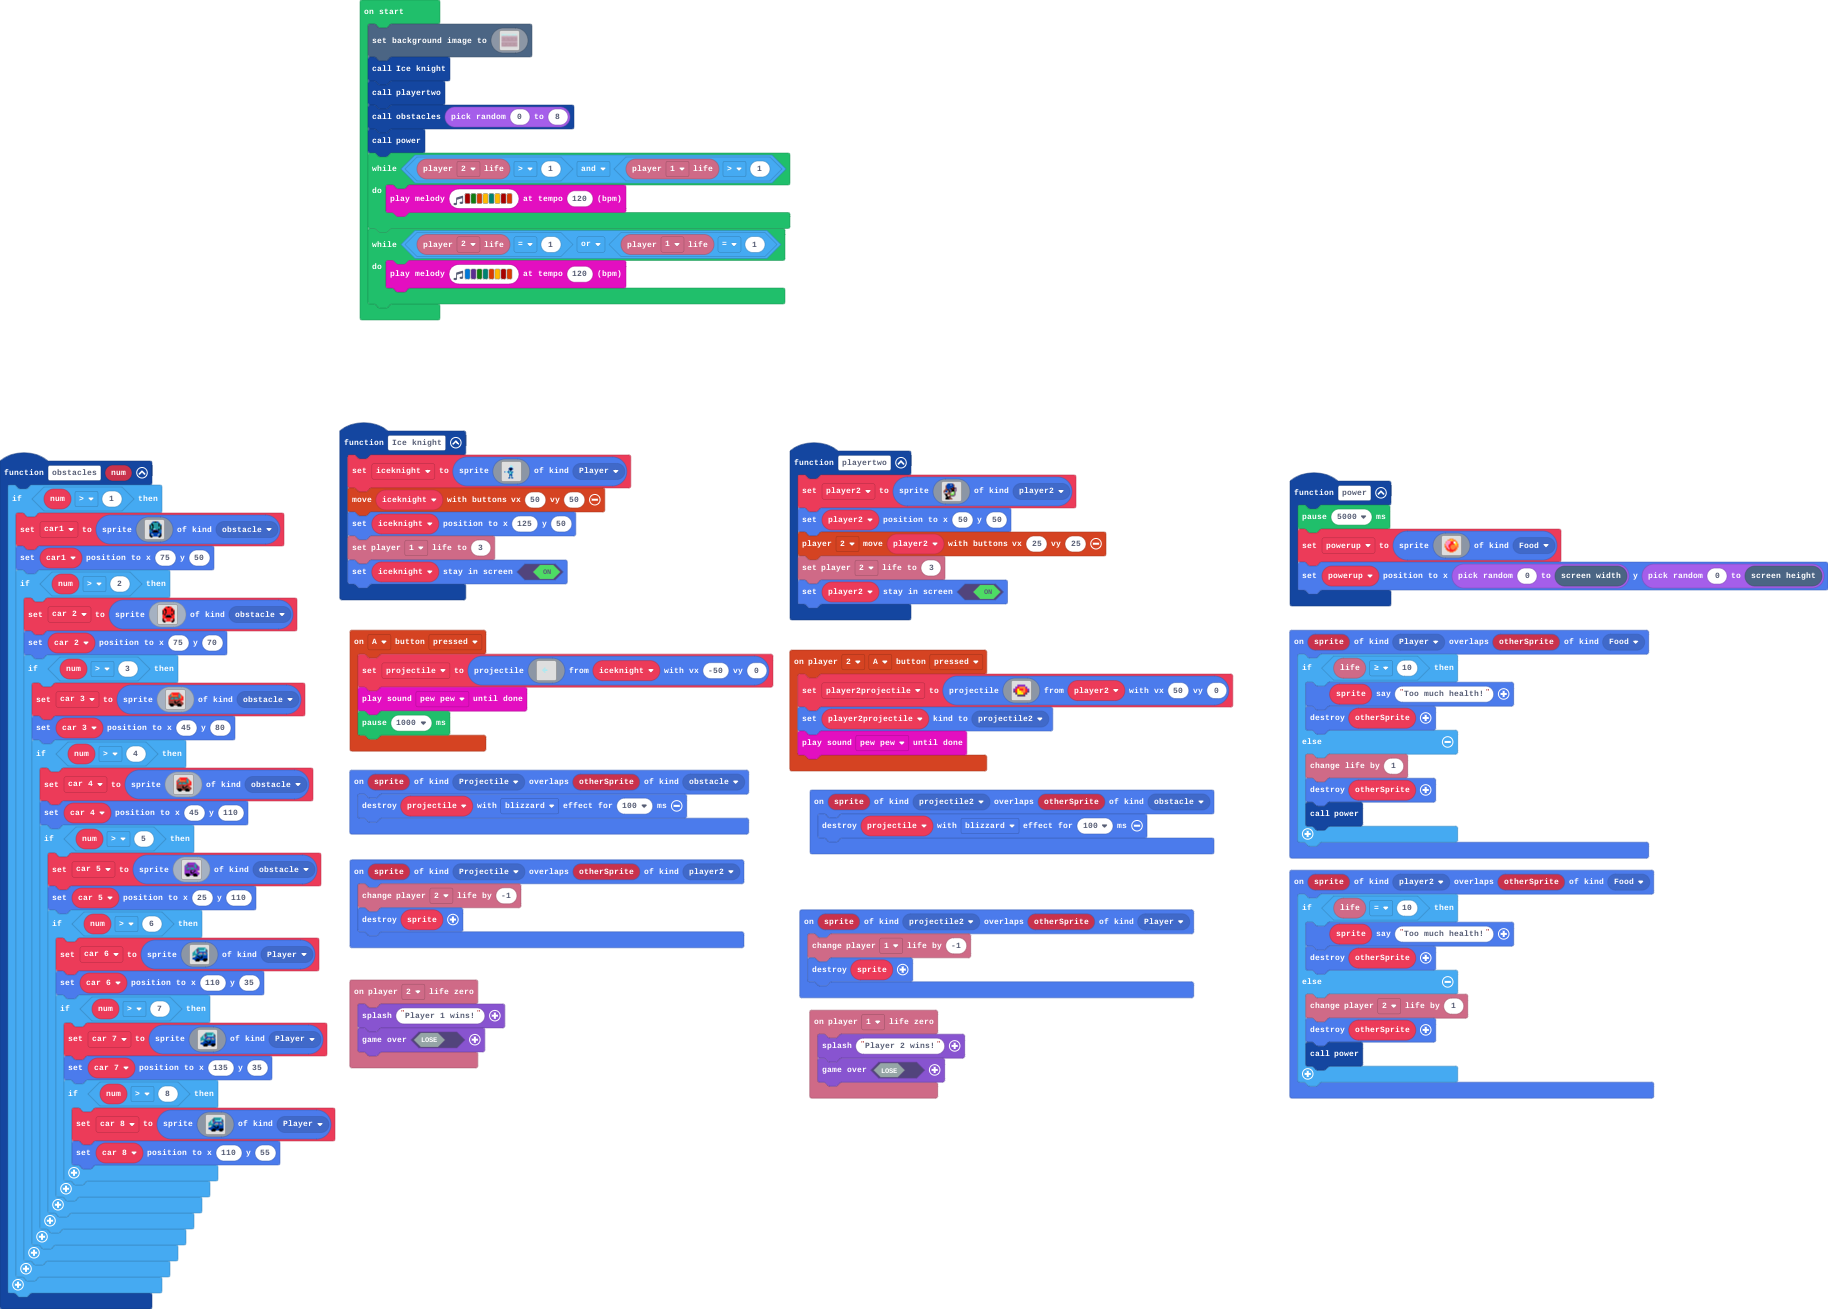
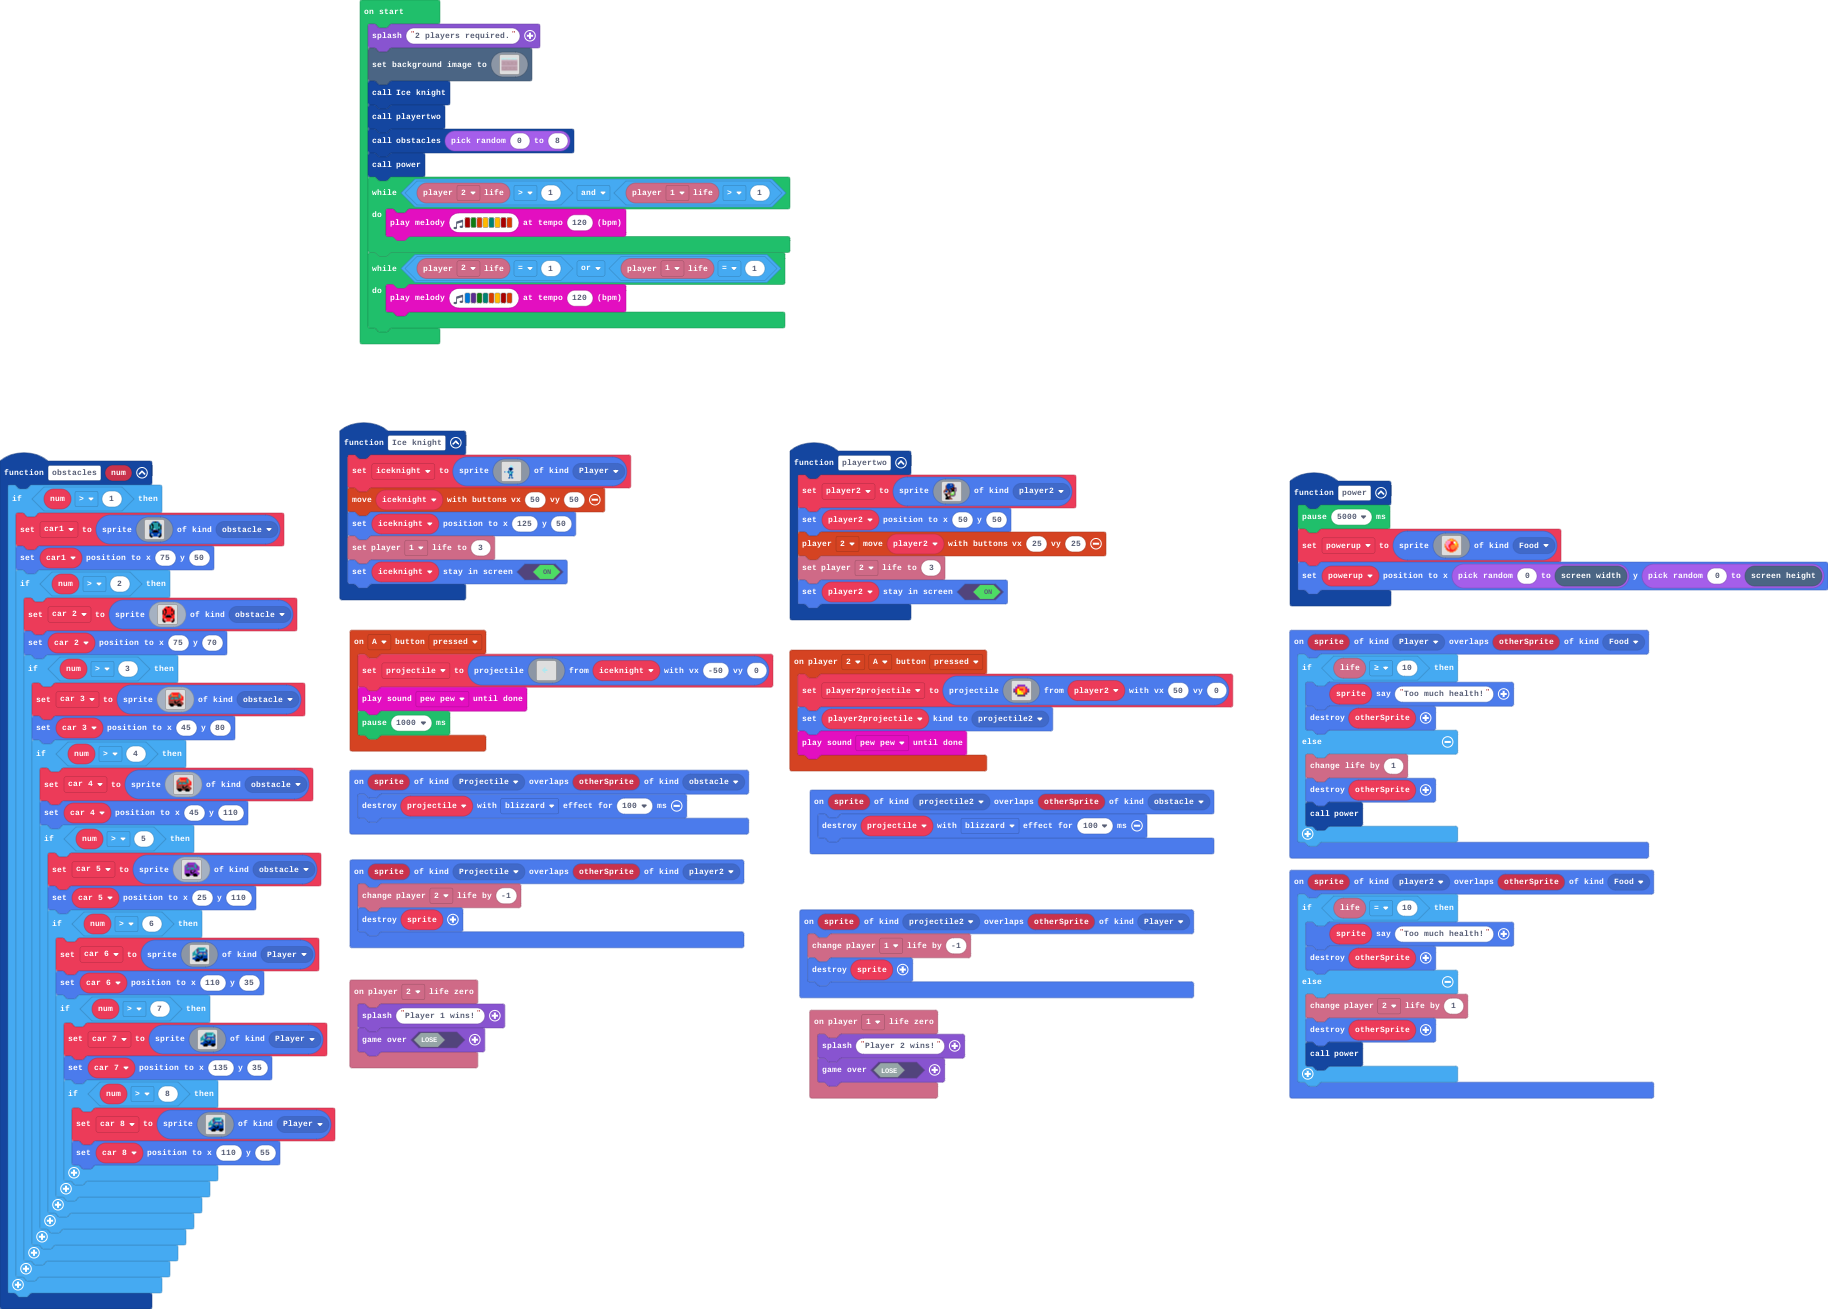
Update main.blocks, main.ts

Changed region(s): [[0.1871, 0.0, 0.4365, 0.275]]

diff --git a/main.ts b/main.ts
@@ -332,6 +332,7 @@ let iceknight: Sprite = null
 let projectile: Sprite = null
 let player2: Sprite = null
 let powerup: Sprite = null
+game.splash("2 players required.")
 scene.setBackgroundImage(img`
     9999999999999999999999999999999999999999999999999999999999999999999999999999999999999999999999999999999999999999999999999999999999999999999999999999999999999999
     9999999999999999999999999999999999999999999999999999111111111119999999999999999999999999999999999999991111999999999999999999999999999999999999999999111111111111
